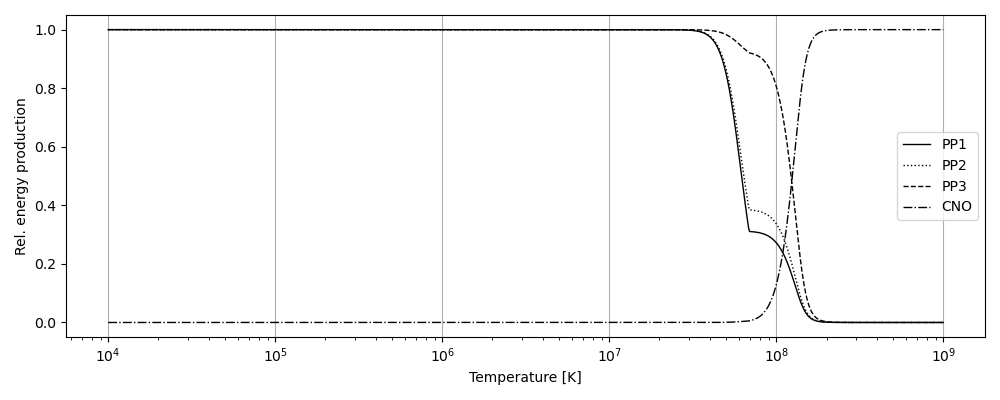
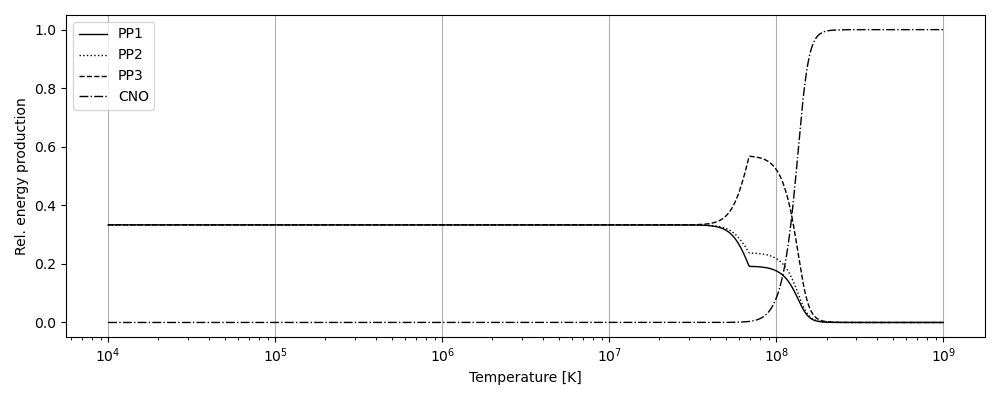
Fixed the scaling of the branches

diff --git a/project-1/rel_energy_Gamow.py b/project-1/rel_energy_Gamow.py
@@ -28,7 +28,7 @@ for i in range(N_steps):
 	star = EnergyProduction(T[i], rho_sun)
 	star.run_all_cycles()
 
-	E_tot = star.PP0 + star.PP1 + np.sum(star.PP2) + np.sum(star.PP3) + star.CNO
+	E_tot = 3 * star.PP0 + star.PP1 + np.sum(star.PP2) + np.sum(star.PP3) + star.CNO
 
 	E_rel[0, i] = star.PP0 / E_tot							# PP0 rel. energy 		(Excluded from plot as it is common for all PP branches)
 	E_rel[1, i] = (star.PP0 + star.PP1) / E_tot				# PP1 rel. energy
